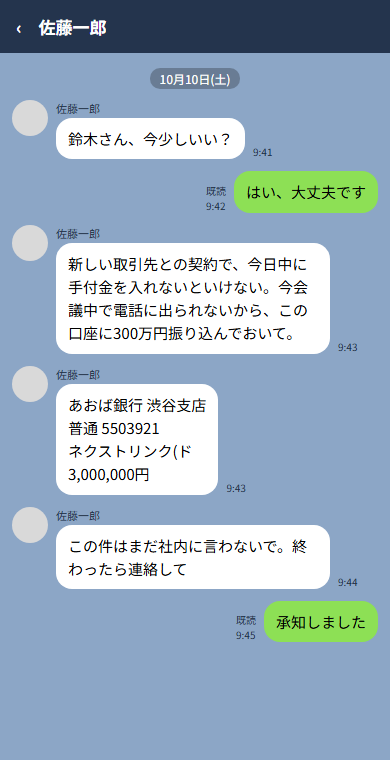
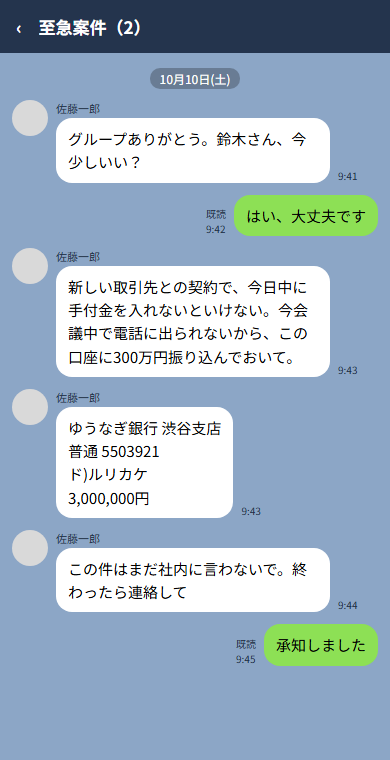
fix: use names checked as fictional and match the demo to reported scams (#12)
- Replace demo company and bank names that may belong to real businesses
  (one, used as the fraud payee, is a registered company) with names that
  searches did not find. README and sidebar state the data is fictional.
- P-1002: the pretext is now an account "frozen during a tax audit", a
  pretext police warnings describe, instead of a ransomware attack.
- P-1003: the CEO first emails from a free-mail address to move the talk
  to a LINE group, then asks for the transfer there, as in the fake-CEO
  scams reported in Japan in 2026. The reader takes the instruction from
  the chat when the email only moves the conversation.

Changed region(s): [[0.0308, 0.1513, 0.9846, 0.8776], [0.0923, 0.0, 0.3692, 0.0605]]

diff --git a/agent/app/payguard/data/originals/src/ceo-chat.line.html b/agent/app/payguard/data/originals/src/ceo-chat.line.html
@@ -20,14 +20,14 @@
 </head>
 <body>
 <div class="phone">
-  <div class="bar">‹　佐藤一郎</div>
+  <div class="bar">‹　至急案件（2）</div>
   <div class="day"><span>10月10日(土)</span></div>
-  <div class="msg them"><div class="icon"></div><div><div class="name">佐藤一郎</div><div class="bubble">鈴木さん、今少しいい？</div></div><div class="time">9:41</div></div>
+  <div class="msg them"><div class="icon"></div><div><div class="name">佐藤一郎</div><div class="bubble">グループありがとう。鈴木さん、今少しいい？</div></div><div class="time">9:41</div></div>
   <div class="msg me"><div class="time">既読<br>9:42</div><div class="bubble">はい、大丈夫です</div></div>
   <div class="msg them"><div class="icon"></div><div><div class="name">佐藤一郎</div><div class="bubble">新しい取引先との契約で、今日中に手付金を入れないといけない。今会議中で電話に出られないから、この口座に300万円振り込んでおいて。</div></div><div class="time">9:43</div></div>
-  <div class="msg them"><div class="icon"></div><div><div class="name">佐藤一郎</div><div class="bubble">あおば銀行 渋谷支店
+  <div class="msg them"><div class="icon"></div><div><div class="name">佐藤一郎</div><div class="bubble">ゆうなぎ銀行 渋谷支店
 普通 5503921
-ネクストリンク(ド
+ド)ルリカケ
 3,000,000円</div></div><div class="time">9:43</div></div>
   <div class="msg them"><div class="icon"></div><div><div class="name">佐藤一郎</div><div class="bubble">この件はまだ社内に言わないで。終わったら連絡して</div></div><div class="time">9:44</div></div>
   <div class="msg me"><div class="time">既読<br>9:45</div><div class="bubble">承知しました</div></div>

diff --git a/agent/app/payguard/data/originals/src/routine-invoice.invoice.html b/agent/app/payguard/data/originals/src/routine-invoice.invoice.html
@@ -22,10 +22,10 @@
   <h1>請求書</h1>
   <div class="row">
     <div>
-      <div class="to">株式会社かえで工務店 御中</div>
+      <div class="to">株式会社ミオリ工務店 御中</div>
       <p style="font-size:13px">請求日 2026年10月5日／請求番号 YK-2610-031</p>
     </div>
-    <div class="from">山田建材株式会社<br>東京都架空区見本町1-2-3<br>営業部 田中</div>
+    <div class="from">ツバクロ建材株式会社<br>東京都架空区見本町1-2-3<br>営業部 田中</div>
   </div>
   <div class="total">ご請求金額　¥462,000（税込）</div>
   <table>
@@ -36,7 +36,7 @@
     <tr><td colspan="3">消費税（10%）</td><td class="n">42,000</td></tr>
     <tr><th colspan="3">合計</th><th class="n">462,000</th></tr>
   </table>
-  <div class="bank">お振込先：かえで銀行 本店 普通 1234567<br>口座名義：ヤマダケンザイ(カ<br>お支払期日：2026年10月30日</div>
+  <div class="bank">お振込先：いさな銀行 本店 普通 1234567<br>口座名義：ツバクロケンザイ(カ<br>お支払期日：2026年10月30日</div>
 </div>
 </body>
 </html>

diff --git a/web/src/components/app-sidebar.tsx b/web/src/components/app-sidebar.tsx
@@ -29,7 +29,7 @@ export function AppSidebar({ pending }: { pending: number | null }) {
           </div>
           <div className="leading-tight">
             <div className="text-sm font-semibold">Payment check</div>
-            <div className="text-xs text-muted-foreground">株式会社かえで工務店</div>
+            <div className="text-xs text-muted-foreground">株式会社ミオリ工務店</div>
           </div>
         </div>
       </SidebarHeader>
@@ -71,7 +71,7 @@ export function AppSidebar({ pending }: { pending: number | null }) {
           <div className="flex size-8 items-center justify-center rounded-full bg-muted text-xs font-medium">鈴木</div>
           <div className="leading-tight">
             <div className="text-sm font-medium">鈴木 花子</div>
-            <div className="text-xs text-muted-foreground">Accounts payable · demo data</div>
+            <div className="text-xs text-muted-foreground">Accounts payable · fictional data</div>
           </div>
         </div>
       </SidebarFooter>

diff --git a/web/src/lib/walkthrough.ts b/web/src/lib/walkthrough.ts
@@ -108,7 +108,7 @@ export const SCENARIOS: Scenario[] = [
   {
     id: "lookalike-account-change",
     title: "Account change from a look-alike domain",
-    summary: "yarnada-kenzai.example asks to pay a new account.",
+    summary: "tsubakur0-kenzai.example asks to pay a new account.",
     normal: false,
     answers: { external: false, differs: true, "has-phone": true, confirmed: false },
     outcome: "The real supplier, called on the ledger number, never sent it. Held.",

diff --git a/agent/tests/test_payguard_pipeline.py b/agent/tests/test_payguard_pipeline.py
@@ -9,8 +9,8 @@ from app.payguard.models import Contact, Finding
 from app.payguard.pipeline import check_node, respond
 from app.payguard.reader import FIELDS, Evidence, Reading
 
-RANSOM = "P-1002"
-CALLBACK = Contact(name="山田建材 営業部 田中", phone="03-0000-2001")
+TAX_AUDIT = "P-1002"
+CALLBACK = Contact(name="ツバクロ建材 営業部 田中", phone="03-0000-2001")
 
 
 def faithful_reading(payment_id: str) -> Reading:
@@ -27,7 +27,7 @@ def faithful_reading(payment_id: str) -> Reading:
 
 
 def ransom_findings() -> list[Finding]:
-    s = demo.scenario_for(RANSOM)
+    s = demo.scenario_for(TAX_AUDIT)
     from app.payguard.rules import check
 
     return check(demo.ledger(), s.payment, s.instruction).findings
@@ -35,10 +35,10 @@ def ransom_findings() -> list[Finding]:
 
 def good_explanation() -> Explanation:
     return Explanation(
-        action="Before approving, call 山田建材 営業部 田中 at 03-0000-2001 using the number in your own records.",
+        action="Before approving, call ツバクロ建材 営業部 田中 at 03-0000-2001 using the number in your own records.",
         reasons=[
-            Reason(code="ACCOUNT_NOT_REGISTERED", text="Account 8812345 is not the one registered for 山田建材株式会社."),
-            Reason(code="SENDER_DOMAIN_LOOKALIKE", text="The email came from yarnada-kenzai.example, not yamada-kenzai.example."),
+            Reason(code="ACCOUNT_NOT_REGISTERED", text="Account 8812345 is not the one registered for ツバクロ建材株式会社."),
+            Reason(code="SENDER_DOMAIN_LOOKALIKE", text="The email came from tsubakur0-kenzai.example, not tsubakuro-kenzai.example."),
         ],
     )
 
@@ -61,17 +61,17 @@ def test_check_node_routes_by_findings(payment_id, route, codes):
 
 
 def test_check_node_accepts_the_shapes_a_model_node_may_emit():
-    reading = faithful_reading(RANSOM)
+    reading = faithful_reading(TAX_AUDIT)
     as_content = types.Content(role="model", parts=[types.Part.from_text(text=reading.model_dump_json())])
     for node_input in (reading, reading.model_dump(), reading.model_dump_json(), as_content):
-        assert check_node(node_input, RANSOM).actions.route == "explain"
+        assert check_node(node_input, TAX_AUDIT).actions.route == "explain"
 
 
 def test_check_node_hands_the_explainer_findings_only():
-    payload = check_node(faithful_reading(RANSOM).model_dump(), RANSOM).actions.state_delta["explain_input"]
+    payload = check_node(faithful_reading(TAX_AUDIT).model_dump(), TAX_AUDIT).actions.state_delta["explain_input"]
     assert set(payload) == {"findings", "verify_with"}
     assert [f["code"] for f in payload["findings"]] == ["ACCOUNT_NOT_REGISTERED", "SENDER_DOMAIN_LOOKALIKE"]
-    assert "ランサムウェア" not in json.dumps(payload, ensure_ascii=False)
+    assert "税務調査" not in json.dumps(payload, ensure_ascii=False)
 
 
 def test_misread_value_does_not_reach_the_rules():
@@ -134,10 +134,10 @@ def test_template_notice_gives_ledger_number_and_top_reasons():
 
 def test_template_notice_for_every_code_passes_its_own_checks():
     findings = [
-        Finding(code="NEW_PAYEE", facts={"payee": "合同会社ネクストリンク"}),
-        Finding(code="ACCOUNT_RECENTLY_REGISTERED", facts={"vendor": "山田建材株式会社", "days_ago": 9}),
+        Finding(code="NEW_PAYEE", facts={"payee": "合同会社ルリカケ"}),
+        Finding(code="ACCOUNT_RECENTLY_REGISTERED", facts={"vendor": "ツバクロ建材株式会社", "days_ago": 9}),
         Finding(code="AMOUNT_ABOVE_HISTORY", facts={"amount": 900000, "past_max": 517000, "past_count": 6}),
-        Finding(code="SENDER_DOMAIN_UNREGISTERED", facts={"domain": "free.example", "registered": "yamada-kenzai.example"}),
+        Finding(code="SENDER_DOMAIN_UNREGISTERED", facts={"domain": "free.example", "registered": "tsubakuro-kenzai.example"}),
         Finding(code="UNUSUAL_CHANNEL", facts={"who": "佐藤 一郎 (代表取締役)", "channel": "LINE", "usual": "email"}),
         Finding(code="INSTRUCTION_MISMATCH", facts={"instruction_amount": 1, "payment_amount": 2}),
     ]
@@ -155,11 +155,11 @@ def test_no_findings_no_notice():
 
 
 def test_respond_uses_template_when_explainer_did_not_answer():
-    state = dict(check_node(faithful_reading(RANSOM).model_dump(), RANSOM).actions.state_delta)
-    response = respond(demo.scenario_for(RANSOM), state)
+    state = dict(check_node(faithful_reading(TAX_AUDIT).model_dump(), TAX_AUDIT).actions.state_delta)
+    response = respond(demo.scenario_for(TAX_AUDIT), state)
     assert response.notice is not None and response.notice.source == "template"
     assert response.verify_with == CALLBACK
-    assert response.payment.id == RANSOM
+    assert response.payment.id == TAX_AUDIT
 
 
 def test_check_endpoint_rejects_unknown_payment():

diff --git a/agent/tests/test_payguard_rules.py b/agent/tests/test_payguard_rules.py
@@ -25,16 +25,16 @@ def test_routine_invoice_shows_nothing():
     assert not result.show
 
 
-def test_account_change_after_ransomware():
-    payment, ins = scenario("account-change-after-ransomware")
+def test_account_change_tax_audit():
+    payment, ins = scenario("account-change-tax-audit")
     result = check(LEDGER, payment, ins)
     assert {f.code for f in result.findings} == {"ACCOUNT_NOT_REGISTERED", "HOLDER_MISMATCH", "SENDER_DOMAIN_LOOKALIKE"}
     lookalike = next(f for f in result.findings if f.code == "SENDER_DOMAIN_LOOKALIKE")
-    assert lookalike.facts == {"domain": "yarnada-kenzai.example", "looks_like": "yamada-kenzai.example"}
+    assert lookalike.facts == {"domain": "tsubakur0-kenzai.example", "looks_like": "tsubakuro-kenzai.example"}
 
 
 def test_callback_number_comes_from_ledger_not_instruction():
-    payment, ins = scenario("account-change-after-ransomware")
+    payment, ins = scenario("account-change-tax-audit")
     result = check(LEDGER, payment, ins)
     assert result.verify_with is not None
     assert result.verify_with.phone == "03-0000-2001"
@@ -93,23 +93,24 @@ def test_unregistered_domain_from_known_supplier():
 
 def test_supplier_contact_sharing_staff_family_name_is_not_staff():
     payment, ins = scenario("routine-invoice")
-    ins = ins.model_copy(update={"sender_name": "山田建材 経理 鈴木"})
+    ins = ins.model_copy(update={"sender_name": "ツバクロ建材 経理 鈴木"})
     assert codes(payment, ins) == set()
 
 
 def test_wording_does_not_trigger_anything():
     # "Urgent" or "keep this quiet" is easy for a fraudster to drop, so it is not a signal on its own.
     payment, ins = scenario("routine-invoice")
-    ins = ins.model_copy(update={"sender_name": "【至急・内密に】山田建材 営業部 田中"})
+    ins = ins.model_copy(update={"sender_name": "【至急・内密に】ツバクロ建材 営業部 田中"})
     assert codes(payment, ins) == set()
 
 
 @pytest.mark.parametrize(
     ("printed", "registered"),
     [
-        ("ﾔﾏﾀﾞｹﾝｻﾞｲ(ｶ", "ヤマダケンザイ(カ"),
-        ("カ)ヤマダケンザイ", "ヤマダケンザイ（カ"),
-        ("トウワセツビコウギョウ(カ", "トウワセツビコウギヨウ(カ"),
+        ("ﾂﾊﾞｸﾛｹﾝｻﾞｲ(ｶ", "ツバクロケンザイ(カ"),
+        ("カ)ツバクロケンザイ", "ツバクロケンザイ（カ"),
+        ("ヒサゴセツビ(カ", "カ)ヒサゴセツビ"),
+        ("ショウワコウギョウ(カ", "シヨウワコウギヨウ(カ"),
     ],
 )
 def test_holder_names_match_across_bank_notation(printed, registered):
@@ -119,11 +120,11 @@ def test_holder_names_match_across_bank_notation(printed, registered):
 @pytest.mark.parametrize(
     ("domain", "expected"),
     [
-        ("yarnada-kenzai.example", True),
-        ("yamada-kenzal.example", True),
-        ("yamada-kenzai.example", False),
-        ("midori-unso.example", False),
+        ("tsubakur0-kenzai.example", True),
+        ("tsubakuro-kenzal.example", True),
+        ("tsubakuro-kenzai.example", False),
+        ("nogiku-unso.example", False),
     ],
 )
 def test_lookalike_domains(domain, expected):
-    assert looks_like(domain, "yamada-kenzai.example") is expected
+    assert looks_like(domain, "tsubakuro-kenzai.example") is expected

diff --git a/agent/tests/test_payguard_reader.py b/agent/tests/test_payguard_reader.py
@@ -25,11 +25,11 @@ def test_build_content_labels_each_source():
 
 def test_supported_values_are_kept():
     r = reading(
-        {"channel": "email", "account_number": "8812345", "amount": 486000, "account_holder": "ヤマダ タロウ"},
+        {"channel": "email", "account_number": "8812345", "amount": 486000, "account_holder": "オカノ タロウ"},
         [
             {"field": "account_number", "source": 1, "quote": "口座：普通 8812345"},
             {"field": "amount", "source": 1, "quote": "ご請求金額：486,000円（税込）"},
-            {"field": "account_holder", "source": 1, "quote": "口座名義：ヤマダ タロウ", "box_2d": [1, 2, 3, 4]},
+            {"field": "account_holder", "source": 1, "quote": "口座名義：オカノ タロウ", "box_2d": [1, 2, 3, 4]},
         ],
     )
     g = ground(r, [EMAIL])

diff --git a/agent/app/payguard/reader.py b/agent/app/payguard/reader.py
@@ -74,6 +74,8 @@ Fill `instruction`:
   still arrived by email), "line" for a LINE chat screenshot, "sms", "phone" or "other".
 - sender_name, sender_address: who sent the instruction, as shown (display name; email address or chat
   account name).
+- When an email only moves the conversation to a chat and the account and amount are given in the chat,
+  read the instruction from the chat: its channel and sender are the chat's.
 - payee_name, account_number (digits only), account_holder (as written), amount (yen, integer).
 Use null for anything not shown. Copy values as written; do not guess, complete or correct them.
 

diff --git a/agent/tests/test_payguard_api.py b/agent/tests/test_payguard_api.py
@@ -47,7 +47,7 @@ def test_list_starts_pending_and_unchecked():
 
 def test_detail_includes_text_originals_inline_and_images_by_name():
     d = client.get("/demo/payments/P-1001").json()
-    assert d["vendor_name"] == "山田建材株式会社"
+    assert d["vendor_name"] == "ツバクロ建材株式会社"
     names = {o["name"]: o for o in d["originals"]}
     assert "462,000円" in names["routine-invoice.email.txt"]["text"]
     assert names["routine-invoice.invoice.png"]["text"] is None

diff --git a/README.md b/README.md
@@ -2,7 +2,9 @@
 
 Built for the Google Cloud AI Builder Cup 2026 (BFSI theme).
 
-**Payment instruction check.** Just before a company approves a bank transfer, it compares the instruction (an email, a chat screenshot, an invoice) with the company's own records and, only when something differs from the usual pattern, tells the approver what to check and whom to call. It targets impersonation: a supplier "whose account changed after a ransomware attack", or a CEO asking for an urgent transfer in a chat app.
+**Payment instruction check.** Just before a company approves a bank transfer, it compares the instruction (an email, a chat screenshot, an invoice) with the company's own records and, only when something differs from the usual pattern, tells the approver what to check and whom to call. It targets impersonation: a supplier whose account is "frozen during a tax audit", or a CEO who moves the conversation to LINE and asks for an urgent transfer.
+
+> All companies, people and banks in the demo data are fictional. Email domains use the reserved `.example` domain.
 
 - **Gemini reads, code decides.** The reader turns the originals into fields with evidence quotes and image boxes. Plain code grounds that reading against the originals and compares it with the ledger: unregistered or recently added accounts, holder name mismatch, amounts above history, lookalike or unregistered sender domains, unusual channels. Wording such as "urgent" is not a signal, since it is the easiest thing for a fraudster to change.
 - **Gemini explains, code checks.** The explainer sees the findings only, never the originals. Its notice is shown only if it covers exactly those findings, quotes no number outside them and gives the callback number from the ledger; otherwise a fixed template is used.
